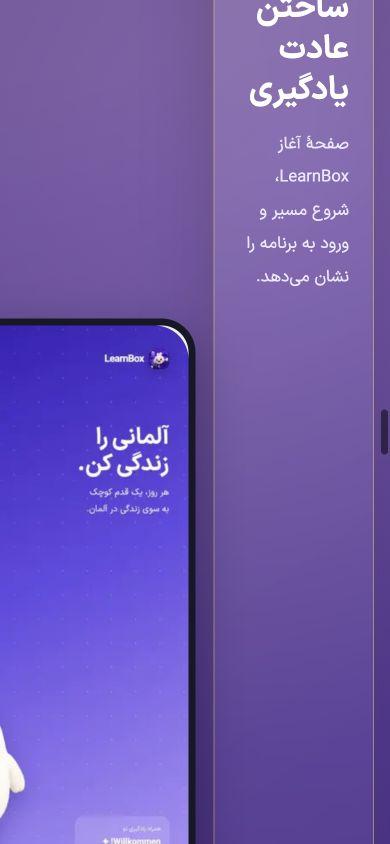
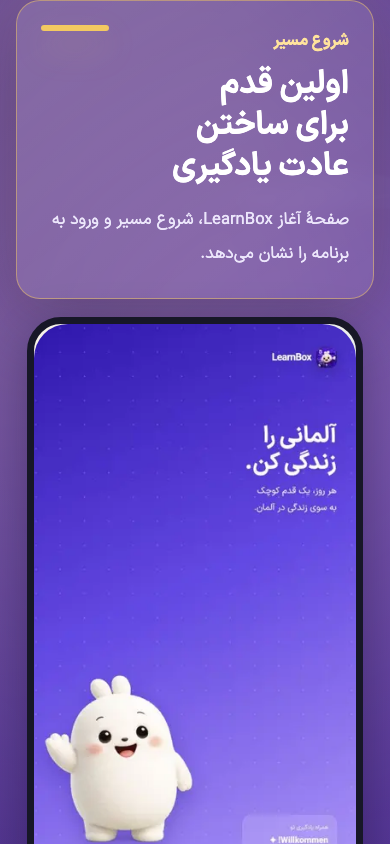
fix(website): contain mobile product story

diff --git a/apps/learnbox-website/app/globals.css b/apps/learnbox-website/app/globals.css
@@ -1330,13 +1330,14 @@ a:focus-visible {
   }
   .product-story__layout {
     display: grid;
-    grid-template-columns: 1fr;
+    grid-template-columns: minmax(0, 1fr);
     gap: 18px;
   }
   .product-story__copy {
     display: contents;
   }
   .product-story__header {
+    grid-column: 1;
     grid-row: 1;
     margin-bottom: 18px;
   }
@@ -1344,8 +1345,9 @@ a:focus-visible {
     font-size: 2.4rem;
   }
   .product-story__stage {
+    grid-column: 1;
     min-height: 0;
-    padding: 28px 24px min(166vw, 660px);
+    padding: 28px 24px;
     border-radius: 24px;
   }
   .product-story__stage + .product-story__stage {
@@ -1355,13 +1357,13 @@ a:focus-visible {
     grid-row: 2;
   }
   .product-story__stage[data-product-stage='today'] {
-    grid-row: 3;
-  }
-  .product-story__stage[data-product-stage='return'] {
     grid-row: 4;
   }
+  .product-story__stage[data-product-stage='return'] {
+    grid-row: 6;
+  }
   .product-story__stage[data-product-stage='progress'] {
-    grid-row: 5;
+    grid-row: 8;
   }
   .product-story__stage h3 {
     font-size: 2rem;
@@ -1375,6 +1377,7 @@ a:focus-visible {
   [data-product-screen] {
     position: relative;
     inset: auto;
+    grid-column: 1;
     align-self: end;
     justify-self: center;
     width: min(86vw, 350px);
@@ -1386,19 +1389,20 @@ a:focus-visible {
     transform: none;
   }
   [data-product-screen='start'] {
-    grid-row: 2;
-  }
-  [data-product-screen='today'] {
     grid-row: 3;
   }
-  [data-product-screen='return'] {
-    grid-row: 4;
-  }
-  [data-product-screen='progress'] {
+  [data-product-screen='today'] {
     grid-row: 5;
   }
+  [data-product-screen='return'] {
+    grid-row: 7;
+  }
+  [data-product-screen='progress'] {
+    grid-row: 9;
+  }
   .product-story__disclosure {
-    grid-row: 6;
+    grid-column: 1;
+    grid-row: 10;
     margin-top: 4px;
   }
   .download-scene {
